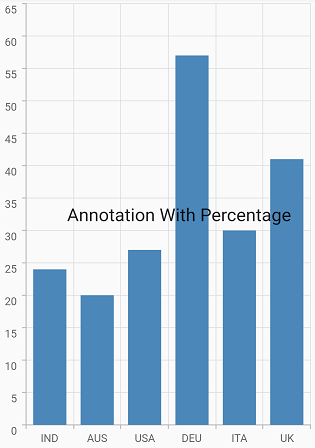
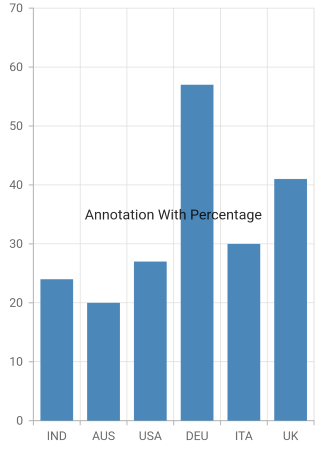
flut-5452-[feature][flutter]: review changes

diff --git a/Flutter/cartesian-charts/annotations.md b/Flutter/cartesian-charts/annotations.md
@@ -135,29 +135,28 @@ To position the annotation based on the percentage values, set the [`CoordinateU
     ];
 
     return Scaffold(
-        body: Center(
-      child: Container(
-        child: SfCartesianChart(
+      body: Center(
+        child: Container(
+          child: SfCartesianChart(
             primaryXAxis: CategoryAxis(interval: 1),
-            annotations: <CartesianChartAnnotation>[
-              CartesianChartAnnotation(
+              annotations: <CartesianChartAnnotation>[
+                CartesianChartAnnotation(
                   coordinateUnit: CoordinateUnit.percentage,
                   region: AnnotationRegion.plotArea,
                   widget: Container(
                     child: const Text('Annotation With Percentage',
                         style: TextStyle(
-                          fontSize: 20,
+                          fontSize: 14,
                         )),
                   ),
                   x: '50%',
                   y: '50%')
             ],
-            series: <ChartSeries<SalesData, String>>[
-              ColumnSeries<SalesData, String>(
+            series: <ChartSeries<ChartData, String>>[
+              ColumnSeries<ChartData, String>(
                   dataSource: chartData,
-                  animationDuration: 5000,
-                  xValueMapper: (SalesData sales, _) => sales.x,
-                  yValueMapper: (SalesData sales, _) => sales.y)
+                  xValueMapper: (ChartData sales, _) => sales.x,
+                  yValueMapper: (ChartData sales, _) => sales.y)
                 ]
               ),
             ),
@@ -166,10 +165,10 @@ To position the annotation based on the percentage values, set the [`CoordinateU
       }
     }
 
-    class SalesData {
-    const SalesData(this.x, this.y);
-    final String x;
-    final int y;
+    class ChartData {
+      const ChartData(this.x, this.y);
+      final String x;
+      final int y;
     }
 
 {% endhighlight %}
